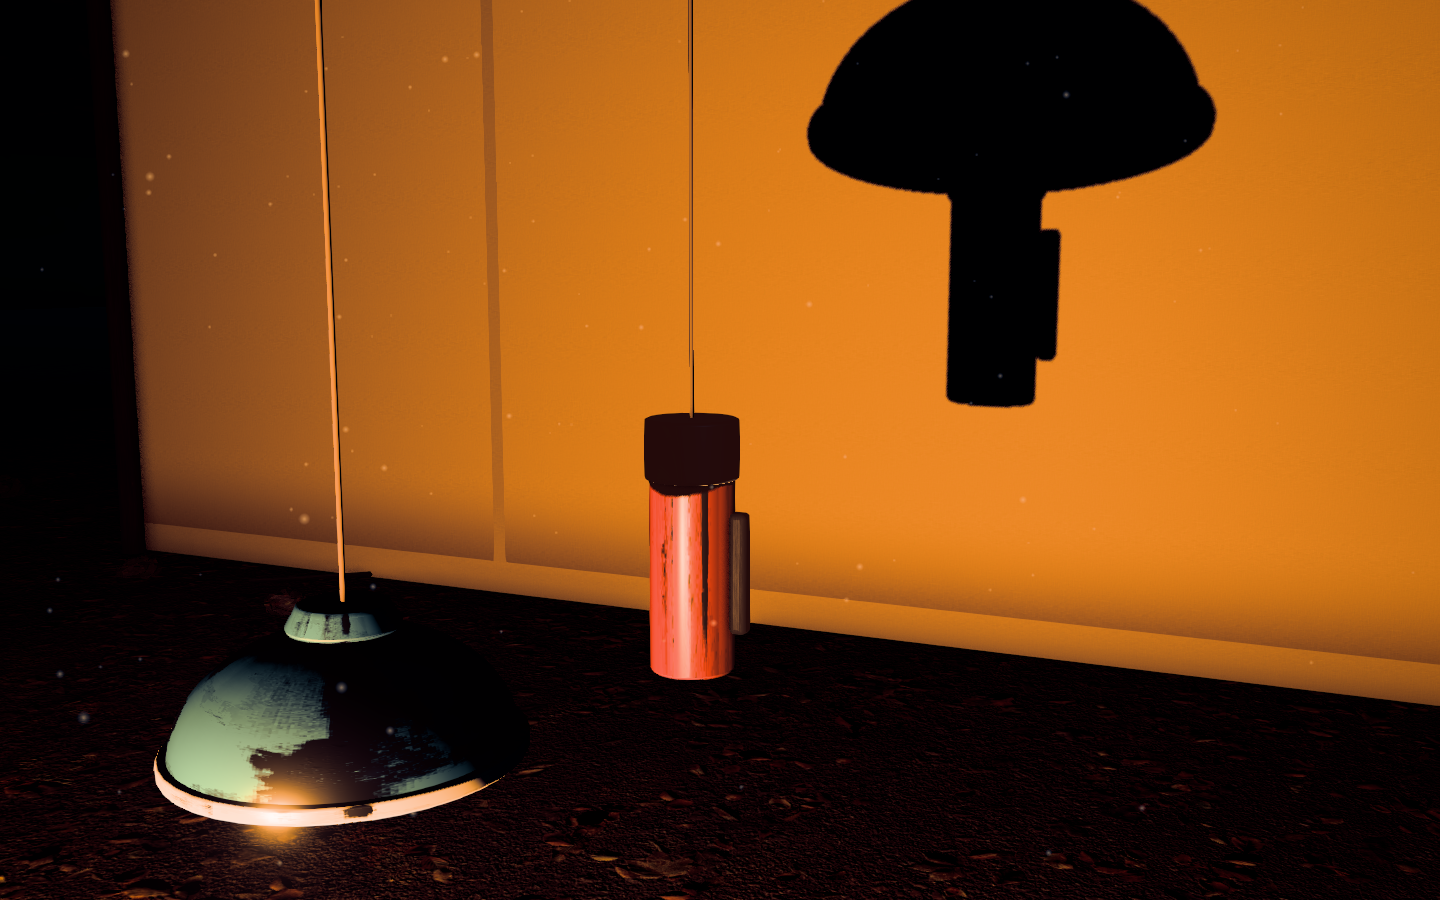
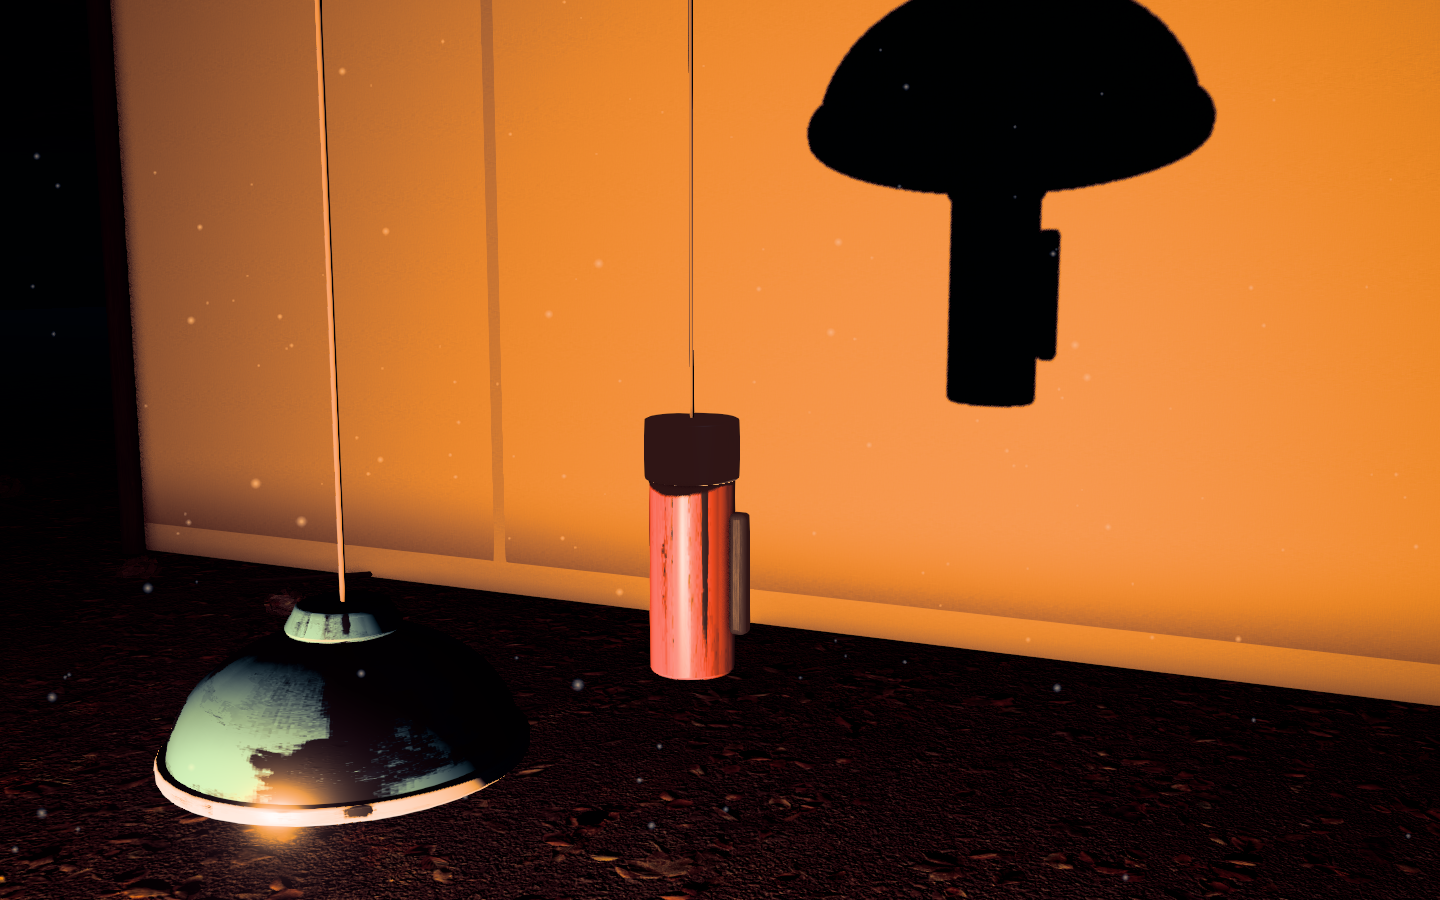
Exposure for a hero that pops; adaptive quality; deterministic media hook
Exposure 1.45 puts the wall centre at ~142/255 against a black night and a
near-black shadow (measured on the hero capture). When frames stay slower than
~60 fps for 2 s the pipeline sheds GTAO, then pixel ratio (not when ?tier= is
fixed for captures). Capture hook gains between/tell/freeze(false) so README
media can be assembled frame by frame (tools/visual/readme-media.mjs).
Evidence: docs/visual/captures/after/

Claude-Session: https://claude.ai/code/session_01GSNzuQsVU2983ZQqmJnCcm

diff --git a/src/visual-test.ts b/src/visual-test.ts
@@ -12,11 +12,16 @@ export interface VisualTest {
   ready: Promise<void>;
   bookmarks: string[];
   setBookmark(name: string | null): void;
-  freeze(): void;
+  /** Stop (or, with false, resume) time-driven motion. */
+  freeze(on?: boolean): void;
   /** Wait for shadows and post-processing to settle (default 8 frames). */
   settle(frames?: number): Promise<void>;
   /** Pose story `index` with its props at the start or at a known answer (play phase). */
   story(index: number, solved: boolean): void;
+  /** Pose story `index` part-way from its start (t = 0) to its known answer (t = 1). */
+  between(index: number, t: number): void;
+  /** Let the posed figure be judged and, if it passes, told (reveal plays). */
+  tell(): void;
   /** Hide or show the HUD for scene-only captures. */
   hud(visible: boolean): void;
   renderer(): string;
@@ -38,8 +43,8 @@ export function installVisualTest(
     setBookmark(name) {
       world.setView(name ? (BOOKMARKS[name] ?? null) : null);
     },
-    freeze() {
-      world.setFrozen(true);
+    freeze(on = true) {
+      world.setFrozen(on);
     },
     settle(frames = 8) {
       return world.frames(frames);
@@ -54,6 +59,28 @@ export function installVisualTest(
         chapter: index,
         placements: chapter.props.map((p) => ({ ...(solved ? p.solution : p.start) })),
       });
+    },
+    between(index, t) {
+      const chapter = CHAPTERS[index];
+      if (!chapter) return;
+      setCapture(true);
+      const k = Math.max(0, Math.min(1, t));
+      const mix = (a: number, b: number) => a + (b - a) * k;
+      store.replace({
+        ...initialState(),
+        phase: "play",
+        chapter: index,
+        placements: chapter.props.map(({ start: a, solution: b }) => ({
+          x: mix(a.x, b.x),
+          y: mix(a.y, b.y),
+          z: mix(a.z, b.z),
+          turn: k < 0.5 ? a.turn : b.turn,
+          tilt: Math.round(mix(a.tilt, b.tilt > a.tilt + 12 ? b.tilt - 24 : b.tilt)),
+        })),
+      });
+    },
+    tell() {
+      store.dispatch({ type: "settle" });
     },
     hud(visible) {
       document.documentElement.classList.toggle("capture-clean", !visible);

diff --git a/src/scene/stage.ts b/src/scene/stage.ts
@@ -13,7 +13,7 @@ import type { Bookmark } from "./bookmarks";
 import { buildCampsite } from "./campsite";
 import { createDust } from "./dust";
 import { buildLantern } from "./lantern";
-import { detectTier, Pipeline } from "./pipeline";
+import { detectTier, forcedTier, Pipeline } from "./pipeline";
 import { texturesLoaded } from "./textures";
 
 // Renderer, camera and light. The lantern is the one key light: a point light at exactly the
@@ -24,7 +24,7 @@ import { texturesLoaded } from "./textures";
 const LANTERN_CD = 80;
 /** Clear moonless sky, scaled so the canvas lit by the lantern is ~300× brighter than the sky. */
 const SKY = 0.0035;
-const EXPOSURE = 0.95;
+const EXPOSURE = 1.45;
 
 export interface Stage {
   scene: Scene;
@@ -124,6 +124,27 @@ export function createStage(host: HTMLElement, reducedMotion: boolean): Stage {
   const ro = new ResizeObserver(fit);
   ro.observe(host);
 
+  // Adaptive quality: if frames stay slower than ~60 fps for two seconds, shed a pass.
+  const adaptive = forcedTier() === null;
+  let slowSince = -1;
+  let lastNow = -1;
+  let startedAt = -1;
+  const watchFrameTime = (now: number) => {
+    if (startedAt < 0) startedAt = now;
+    const dt = lastNow < 0 ? 0 : now - lastNow;
+    lastNow = now;
+    // Ignore the first seconds (shader compiles) and hidden-tab gaps.
+    if (!adaptive || now - startedAt < 4000 || dt > 250) return;
+    if (dt > 18) {
+      if (slowSince < 0) slowSince = now;
+      else if (now - slowSince > 2000) {
+        pipeline.degrade();
+        slowSince = -1;
+        startedAt = now - 3000; // let the lighter frame settle before judging again
+      }
+    } else slowSince = -1;
+  };
+
   let raf = 0;
   let glow = 1;
   let frozenAt: number | null = null;
@@ -160,6 +181,7 @@ export function createStage(host: HTMLElement, reducedMotion: boolean): Stage {
       renderer.shadowMap.needsUpdate = true;
       const loop = (now: number) => {
         raf = requestAnimationFrame(loop);
+        watchFrameTime(now);
         const t = frozenAt ?? now;
         onFrame(t);
         dust.tick(t);

diff --git a/src/scene/pipeline.ts b/src/scene/pipeline.ts
@@ -61,9 +61,15 @@ type VisibilityPatched = { _overrideVisibility(): void; _visibilityCache: Object
 export type Tier = "high" | "low";
 
 /** Phones and small touch screens get the light tier: no GTAO, smaller buffers. */
-export function detectTier(): Tier {
+/** A tier chosen in the URL (?tier=high|low) is fixed: captures must not change mid-run. */
+export function forcedTier(): Tier | null {
   const forced = new URLSearchParams(window.location.search).get("tier");
-  if (forced === "low" || forced === "high") return forced;
+  return forced === "low" || forced === "high" ? forced : null;
+}
+
+export function detectTier(): Tier {
+  const forced = forcedTier();
+  if (forced) return forced;
   const coarse = window.matchMedia("(pointer: coarse)").matches;
   const small = Math.min(window.innerWidth, window.innerHeight) < 700;
   return coarse || small ? "low" : "high";
@@ -160,6 +166,24 @@ export class Pipeline {
 
   render() {
     this.composer.render();
+  }
+
+  /**
+   * Adaptive quality: shed the heaviest pass first. Returns false once nothing is left to drop.
+   * Step 1 turns GTAO off; step 2 lowers the pixel ratio to 1.
+   */
+  degrade(): boolean {
+    if (this.ao?.enabled) {
+      this.ao.enabled = false;
+      return true;
+    }
+    if (this.pixelRatio > 1) {
+      this.pixelRatio = 1;
+      const size = this.renderer.getSize(new Vector2());
+      this.setSize(size.x, size.y);
+      return true;
+    }
+    return false;
   }
 
   dispose() {
